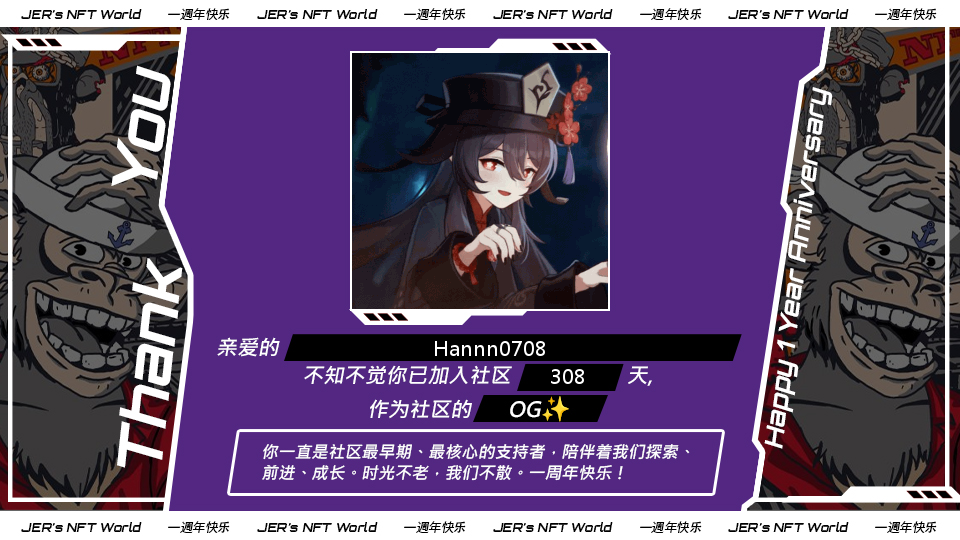
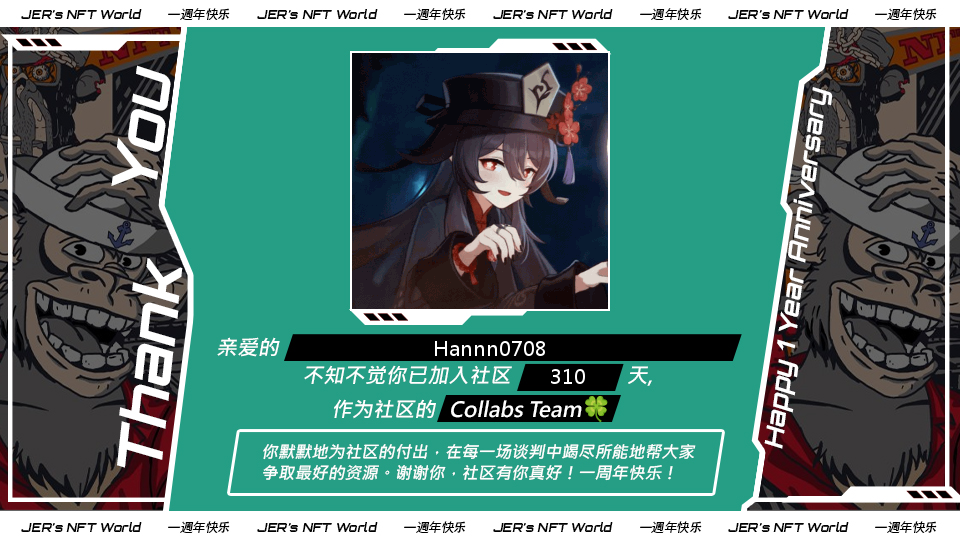
Added core team, collabs team, smart trader templates, fixed bugs, added delete message handling

diff --git a/jsb.py b/jsb.py
@@ -26,6 +26,7 @@ class JSBClient(discord.Client):
         self.tree.copy_global_to(guild=JER_GUILD)
         await self.tree.sync(guild=JER_GUILD)
 
+
 intents = discord.Intents.default()
 handler = logging.FileHandler(filename='discord.log', encoding='utf-8', mode='w')
 client = JSBClient(intents=intents)
@@ -36,10 +37,13 @@ async def on_ready():
     print('------')
 
     event_channel = client.get_channel(EVENT_CHANNEL_ID)
-    # if not event_channel.last_message_id is None: 
-    #     last_message = await event_channel.fetch_message(event_channel.last_message_id)
-    #     if last_message.author.id == client.user.id:
-    #         await last_message.delete()
+    if event_channel.last_message_id is not None: 
+        try: 
+            last_message = await event_channel.fetch_message(event_channel.last_message_id)
+            if last_message.author.id == client.user.id:
+                await last_message.delete()
+        except discord.NotFound:
+            pass
     
     title = "Jer's 一周年纪念卡 ✨"
     description = '时光不老，我们不散！💕'
@@ -70,28 +74,36 @@ async def membercard(interaction: discord.Interaction):
     membercard_file_path = f'{MEMBERCARDS_DIR}/{file_name}'
     pfp_file_path = f'{PFP_DIR}/{file_name}'
 
-    membercard_exists = os.path.exists(membercard_file_path)
-    if not membercard_exists:
-        highest_role = ''
-        if OG_ROLE_ID in member_roles:
-            highest_role = 'og'
-        elif RAIDER_ROLE_ID in member_roles:
-            highest_role = 'raider'
-        elif FEMALE_ROLE_ID in member_roles: 
-            highest_role = 'female'
-        elif MALE_ROLE_ID in member_roles:
-            highest_role = 'male'
+    # membercard_exists = os.path.exists(membercard_file_path)
+    # if not membercard_exists:
+    highest_role_id = member_roles[-1]
+    highest_role = ''
 
-        if not highest_role:
-            await interaction.response.send_message(f'请先到 <#{ROLE_CHANNEL_ID}> 领取身份组。', ephemeral=True)
-            return
+    if highest_role_id == CORE_TEAM_ROLE_ID:
+        highest_role = 'core_team'
+    elif highest_role_id == COLLAB_TEAM_ROLE_ID:
+        highest_role = 'collab_team'
+    elif highest_role_id == SMART_TRADER_ROLE_ID:
+        highest_role = 'smart_trader'
+    elif highest_role_id == OG_ROLE_ID:
+        highest_role = 'og'
+    elif highest_role_id == RAIDER_ROLE_ID:
+        highest_role = 'raider'
+    elif highest_role_id == FEMALE_ROLE_ID:
+        highest_role = 'female'
+    elif highest_role_id == MALE_ROLE_ID:
+        highest_role = 'male'
 
-        pfp_exists = os.path.exists(pfp_file_path)
-        if not pfp_exists:
-            await member.display_avatar.with_size(256).save(pfp_file_path)
+    if not highest_role:
+        await interaction.response.send_message(f'请先到 <#{ROLE_CHANNEL_ID}> 领取身份组。', ephemeral=True)
+        return
 
-        joined_date = member.joined_at.date()
-        create_membercard(member.id, f'{member.name}{member.discriminator}', highest_role, f'{get_joined_days(joined_date)}')
+    pfp_exists = os.path.exists(pfp_file_path)
+    if not pfp_exists:
+        await member.display_avatar.with_size(256).save(pfp_file_path)
+
+    joined_date = member.joined_at.date()
+    create_membercard(member.id, f'{member.name}{member.discriminator}', highest_role, f'{get_joined_days(joined_date)}')
 
     file = discord.File(membercard_file_path, filename=file_name)
     membercard_embed = discord.Embed(title='我的一周年纪念卡 ✨', description='No utilities, no roadmap. Just for the vibes!🤟')

diff --git a/membercards.py b/membercards.py
@@ -9,6 +9,9 @@ def create_membercard(user_id, name, role, joined_days):
     pfp_url = f'{PFP_DIR}/{user_id}.png'
     template_url = f'{TEMPLATE_DIR}/{role}.jpg'
 
+    if user_id == 921256448669933589:
+        template_url = f'{TEMPLATE_DIR}/belle.jpg'
+
     pfp = Image.open(pfp_url)
     template = Image.open(template_url)
 
